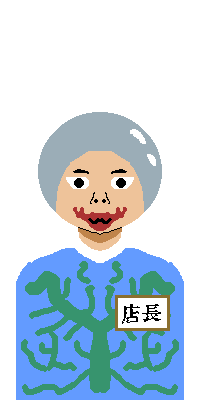
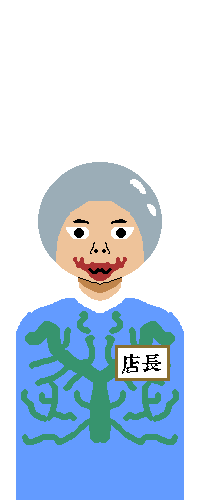
9/10 1:24

diff --git a/Enemy.cpp b/Enemy.cpp
@@ -16,13 +16,13 @@ Enemy::Enemy() {
 		png = Novice::LoadTexture("./Resouse/image/OTAKU.png");
 		break;
 	case 2:
-		png = Novice::LoadTexture("./Resouse/image/a.png");
+		png = Novice::LoadTexture("./Resouse/image/MAN.png");
 		break;
 	case 3:
-		png = Novice::LoadTexture("./Resouse/image/a.png");
+		png = Novice::LoadTexture("./Resouse/image/BOY.png");
 		break;
 	case 4:
-		png = Novice::LoadTexture("./Resouse/image/a.png");
+		png = Novice::LoadTexture("./Resouse/image/SHADY.png");
 		break;
 	}
 	runflag=true;
@@ -37,7 +37,14 @@ void Enemy::Run() {
 	}
 }
 void Enemy::Draw() {
-	Q((int)pos.x, (int)pos.y, size, size, 200, 400, png);
+	if (runflag) {
+		QE((int)pos.x, (int)pos.y, size,400, 200,200, 400, png);
+	}
+	else
+	{
+		Q((int)pos.x, (int)pos.y, size, 400, 200, 400, png);
+	}
+	
 	
 }
 void Enemy::Que(bool flag,int num) {
@@ -79,9 +86,9 @@ void Enemy::Taiten(){
 }
 void Enemy::TaitenDraw(bool f) {
 	if (f) {
-
+		QE((int)pos.x, (int)pos.y, size, 400, 200, 200, 400, png);
 	}
 	else {
-
+		QE((int)pos.x, (int)pos.y, size, 400, 400, 200, 400, png);
 	}
 }

diff --git a/GamePlay.cpp b/GamePlay.cpp
@@ -26,6 +26,7 @@ GamePlay::GamePlay() {
 	Num[3] = Novice::LoadTexture("./Resouse/image/3.png");
 	
 	haikei = Novice::LoadTexture("./Resouse/image/haikei.png");
+	back = Novice::LoadTexture("./Resouse/image/haikeiback.png");
 }
 GamePlay::~GamePlay() {
 	delete player;
@@ -129,9 +130,15 @@ void GamePlay::Update() {
 	
 }
 void GamePlay::Draw() {
-	
-	/*Q(0, 0, 1280, 720, 1280, 720, haikei);*/
-	enemy[enemycount]->Draw();
+	Q(0, 0, 1280, 720, 1280, 720, back);
+	QE(0, 0, 1280, 720,0, 1280, 720, haikei);
+	if (!ketudan) {
+		enemy[enemycount]->Draw();
+	}
+	else
+	{
+		enemy[enemycount]->TaitenDraw(kekka);
+	}
 	if (situmon&&sit==0) {
 		Novice::DrawBox(20, 510, 400, 200, 0.f, RED, kFillModeWireFrame);
 		Novice::DrawBox(440, 510, 400, 200, 0.f, RED, kFillModeWireFrame);

diff --git a/func.h b/func.h
@@ -3,3 +3,7 @@
 static void Q(int a,int b,int c,int d,int e,int f,int tex) {
 	Novice::DrawQuad(a, b, a + c, b, a, b + d, a + c, b + d, 0, 0, e, f, tex, WHITE);
 }
+
+static void QE(int a, int b, int c, int d, int e, int f, int g, int tex) {
+	Novice::DrawQuad(a, b, a + c, b, a, b + d, a + c, b + d, e, 0, f, g, tex, WHITE);
+}

diff --git a/Enemy.h b/Enemy.h
@@ -1,5 +1,6 @@
 #pragma once
 #include"Vector2.h"
+#include"Novice.h"
 
 class Enemy
 {
@@ -10,6 +11,7 @@ public:
 	int png;
 	bool runflag;
 	bool endflag;
+	int hentou;
 public:
 	Enemy();
 	void Run();

diff --git a/GamePlay.h b/GamePlay.h
@@ -22,6 +22,7 @@ private:
 	Player* player;
 	int haikei;
 	int Num[4];
+	int back;
 public:
 	GamePlay();
 	~GamePlay();
